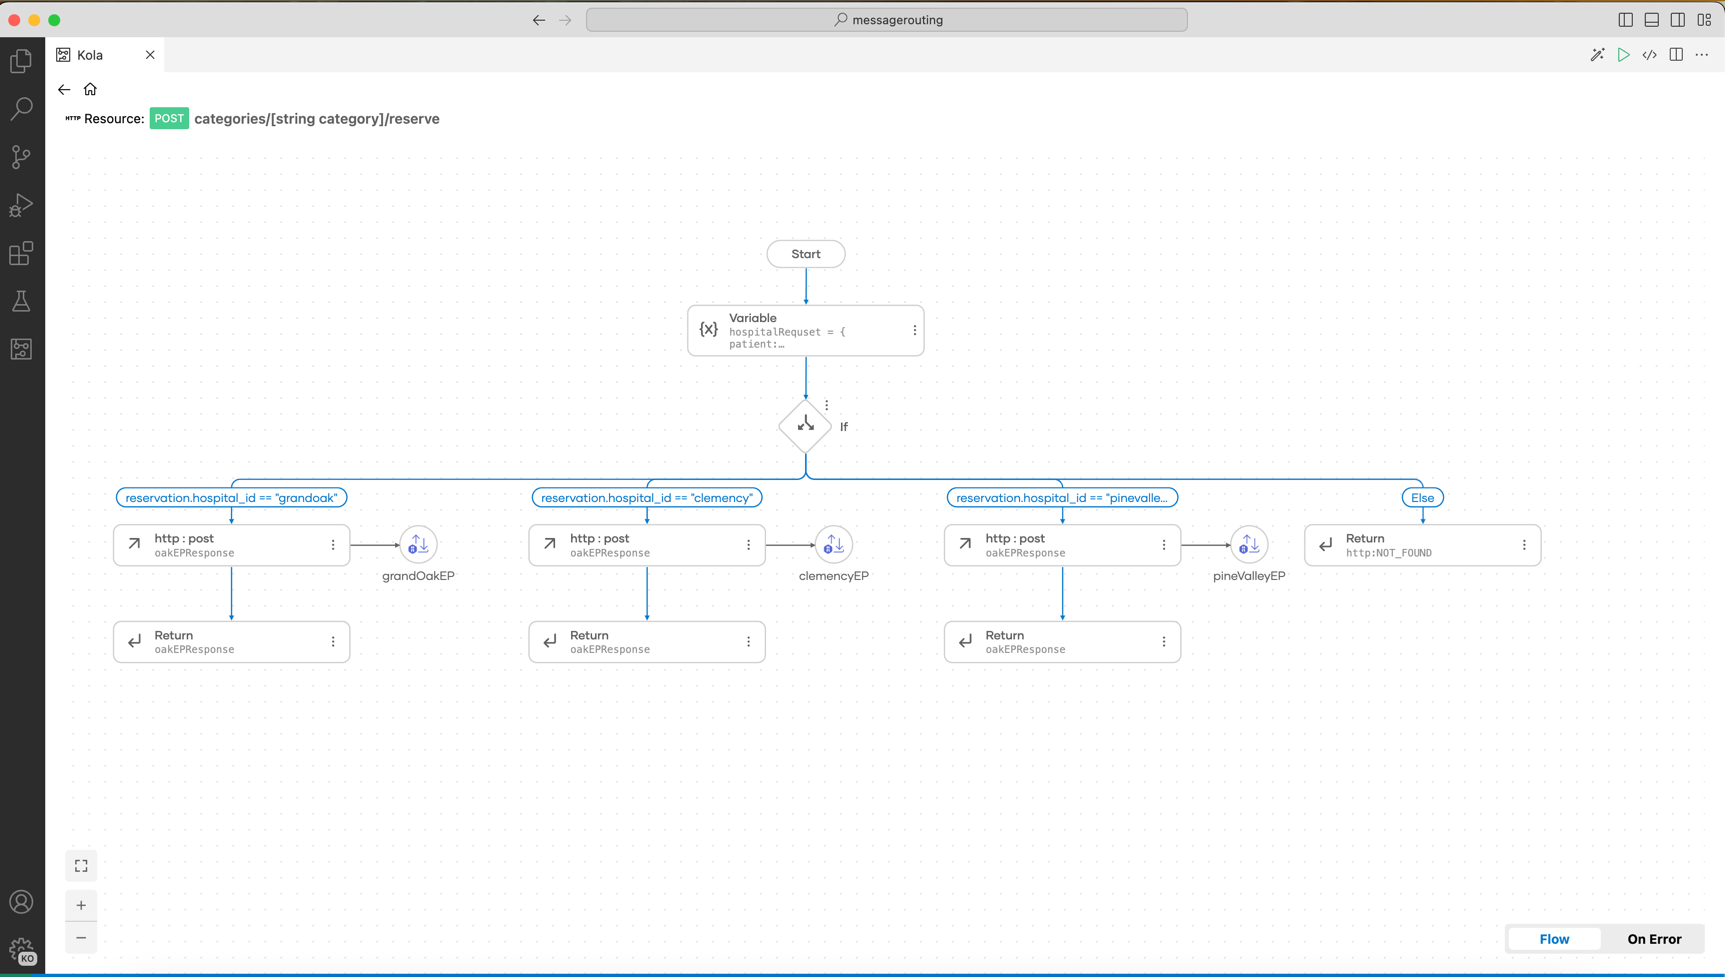
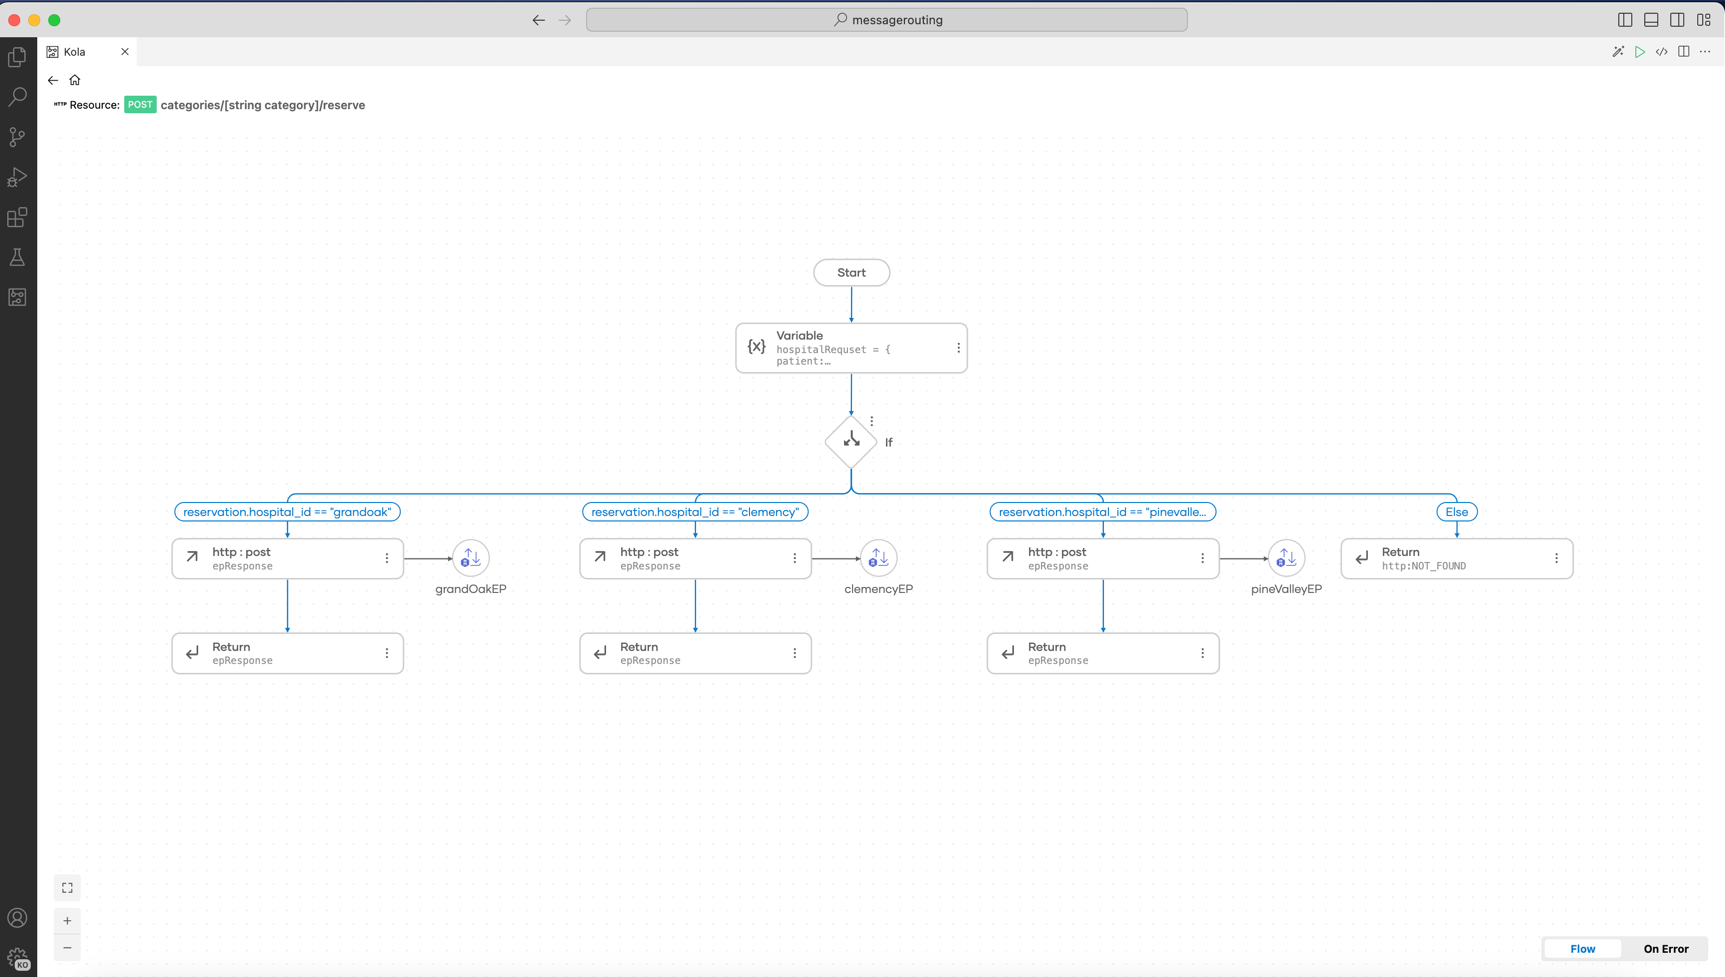
Deployed d0a2cd2 with MkDocs version: 1.4.2

diff --git a/learn/message-routing/index.html b/learn/message-routing/index.html
@@ -948,10 +948,10 @@ To accomplish this, you’ll build a REST service with a single resource in Visu
 </li>
 </ol>
 <h2 id="prerequisites">Prerequisites<a class="headerlink" href="#prerequisites" title="Permanent link">&para;</a></h2>
-<p>Download the JAR file for the <a href="https://github.com/ballerina-guides/integration-tutorials/blob/main/backends/hospital-service/hospitalservice.jar">backend service</a> and execute the following command to start the service.</p>
-<div class="highlight"><pre><span></span><code>$<span class="w"> </span>bal<span class="w"> </span>run<span class="w"> </span>hospitalservice.jar
-</code></pre></div>
-
+<ol>
+<li>Download the JAR file for the <a href="https://github.com/ballerina-guides/integration-tutorials/blob/main/backends/hospital-service/hospitalservice.jar">backend service</a> and execute the following command to start the service.</li>
+<li>Install the latest <a href="https://ballerina.io/learn/getting-started/">Ballerina Swan Lake</a> version.</li>
+</ol>
 <h2 id="implementation">Implementation<a class="headerlink" href="#implementation" title="Permanent link">&para;</a></h2>
 <p>Follow the steps below to implement the message routing service.</p>
 <h3 id="step-1-create-a-new-integration-project">Step 1: Create a new Integration Project.<a class="headerlink" href="#step-1-create-a-new-integration-project" title="Permanent link">&para;</a></h3>
@@ -1111,11 +1111,10 @@ See supported client configurations in the <a href="https://central.ballerina.io
 </table>
 </li>
 <li>
-<p>Click on the ➕ sign again and select <strong><code>Return</code></strong> from the node panel.</p>
+<p>Click on the ➕ sign again and select <strong><code>Return</code></strong> from the node panel. Select the <code>epReponse</code> variable from the dropdown and click <strong><code>Save</code></strong>.</p>
 </li>
 <li>
-<p>Select the <code>oakEPResponse</code> variable from the dropdown and click <strong><code>Save</code></strong>.
- Repeat the above steps for the <code>clemency</code> and <code>pinevalley</code> hospitals with the following configurations.</p>
+<p>Repeat the 7,8,9 steps for the <code>clemency</code> and <code>pinevalley</code> hospitals with the following configurations.</p>
 <p><strong>clemency:</strong></p>
 <table>
 <thead>
@@ -1203,7 +1202,7 @@ See supported client configurations in the <a href="https://central.ballerina.io
 <span class="s1"> }&#39;</span>
 </code></pre></div></li>
 <li>The response will be similar to the following.
-    <div class="highlight"><span class="filename">ReservationResponse.json</span><pre><span></span><code><span class="p">{</span>
+    <div class="highlight"><pre><span></span><code><span class="p">{</span>
 <span class="nt">&quot;appointmentNumber&quot;</span><span class="p">:</span><span class="w"> </span><span class="mi">1</span><span class="p">,</span>
 <span class="nt">&quot;doctor&quot;</span><span class="p">:</span><span class="w"> </span><span class="p">{</span>
 <span class="nt">&quot;name&quot;</span><span class="p">:</span><span class="w"> </span><span class="s2">&quot;thomas collins&quot;</span><span class="p">,</span>
